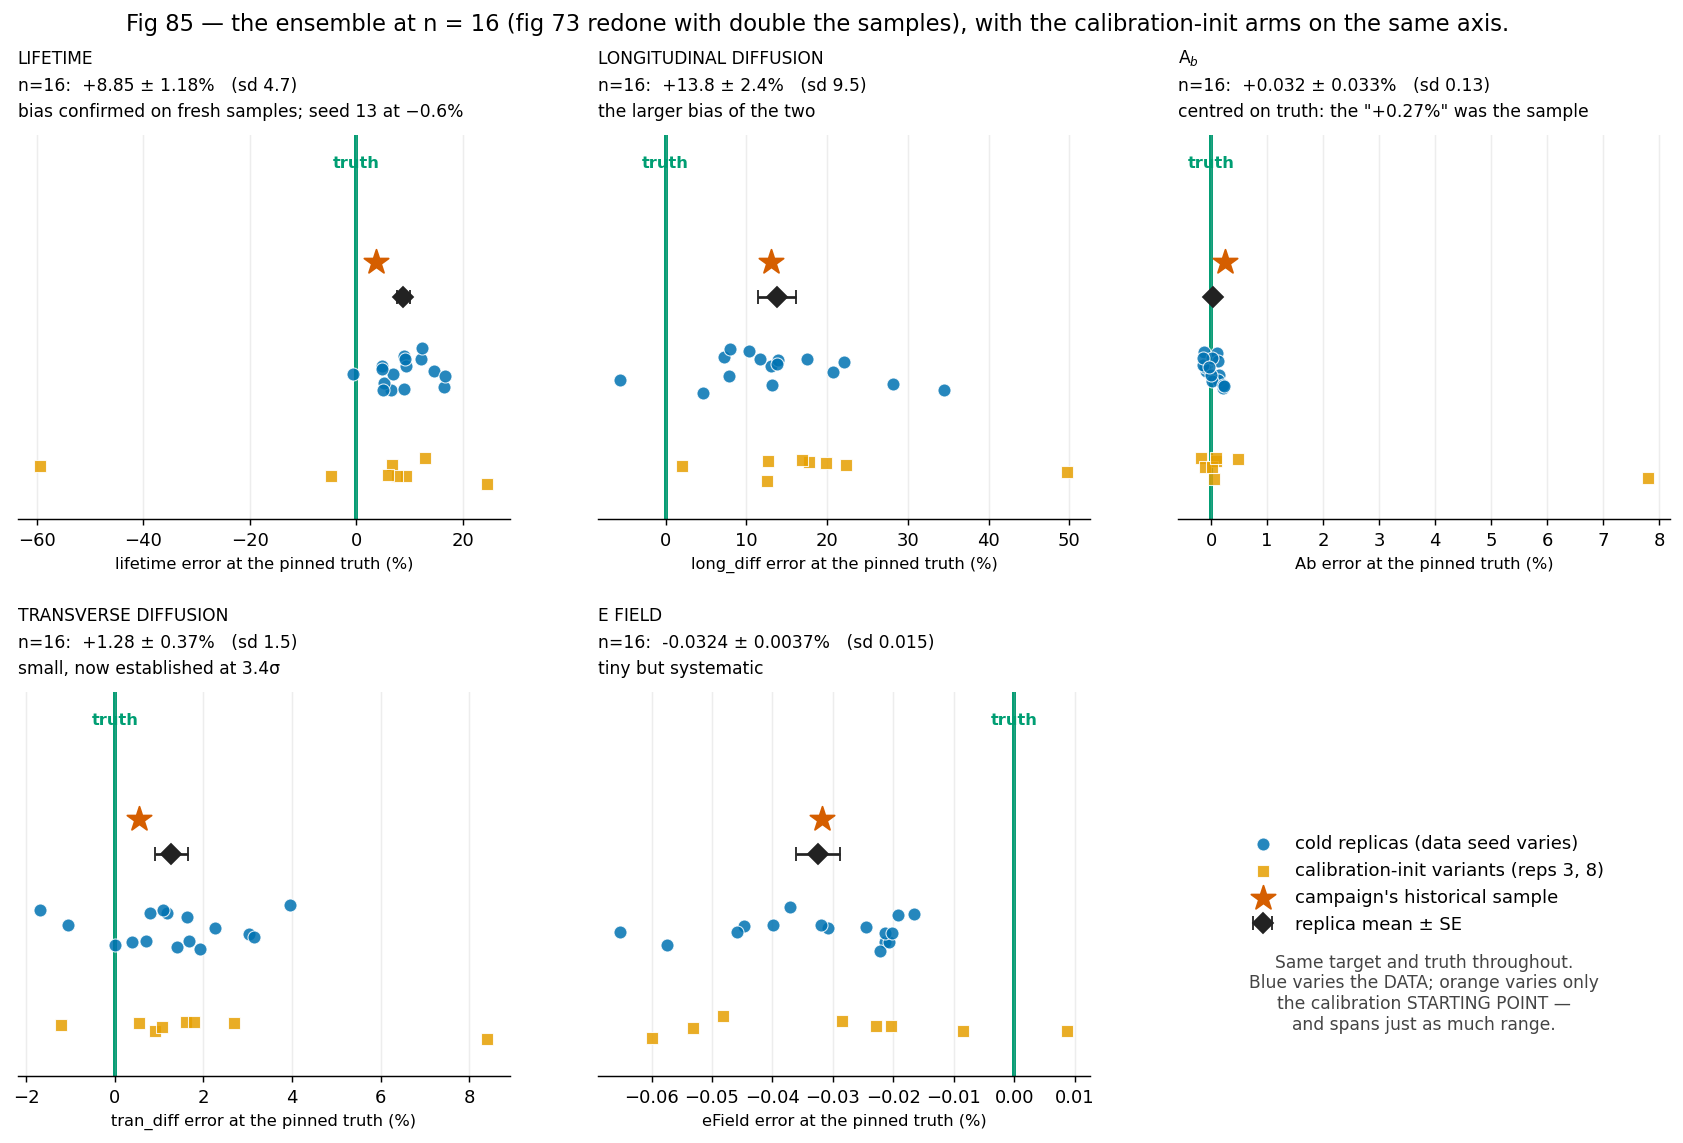
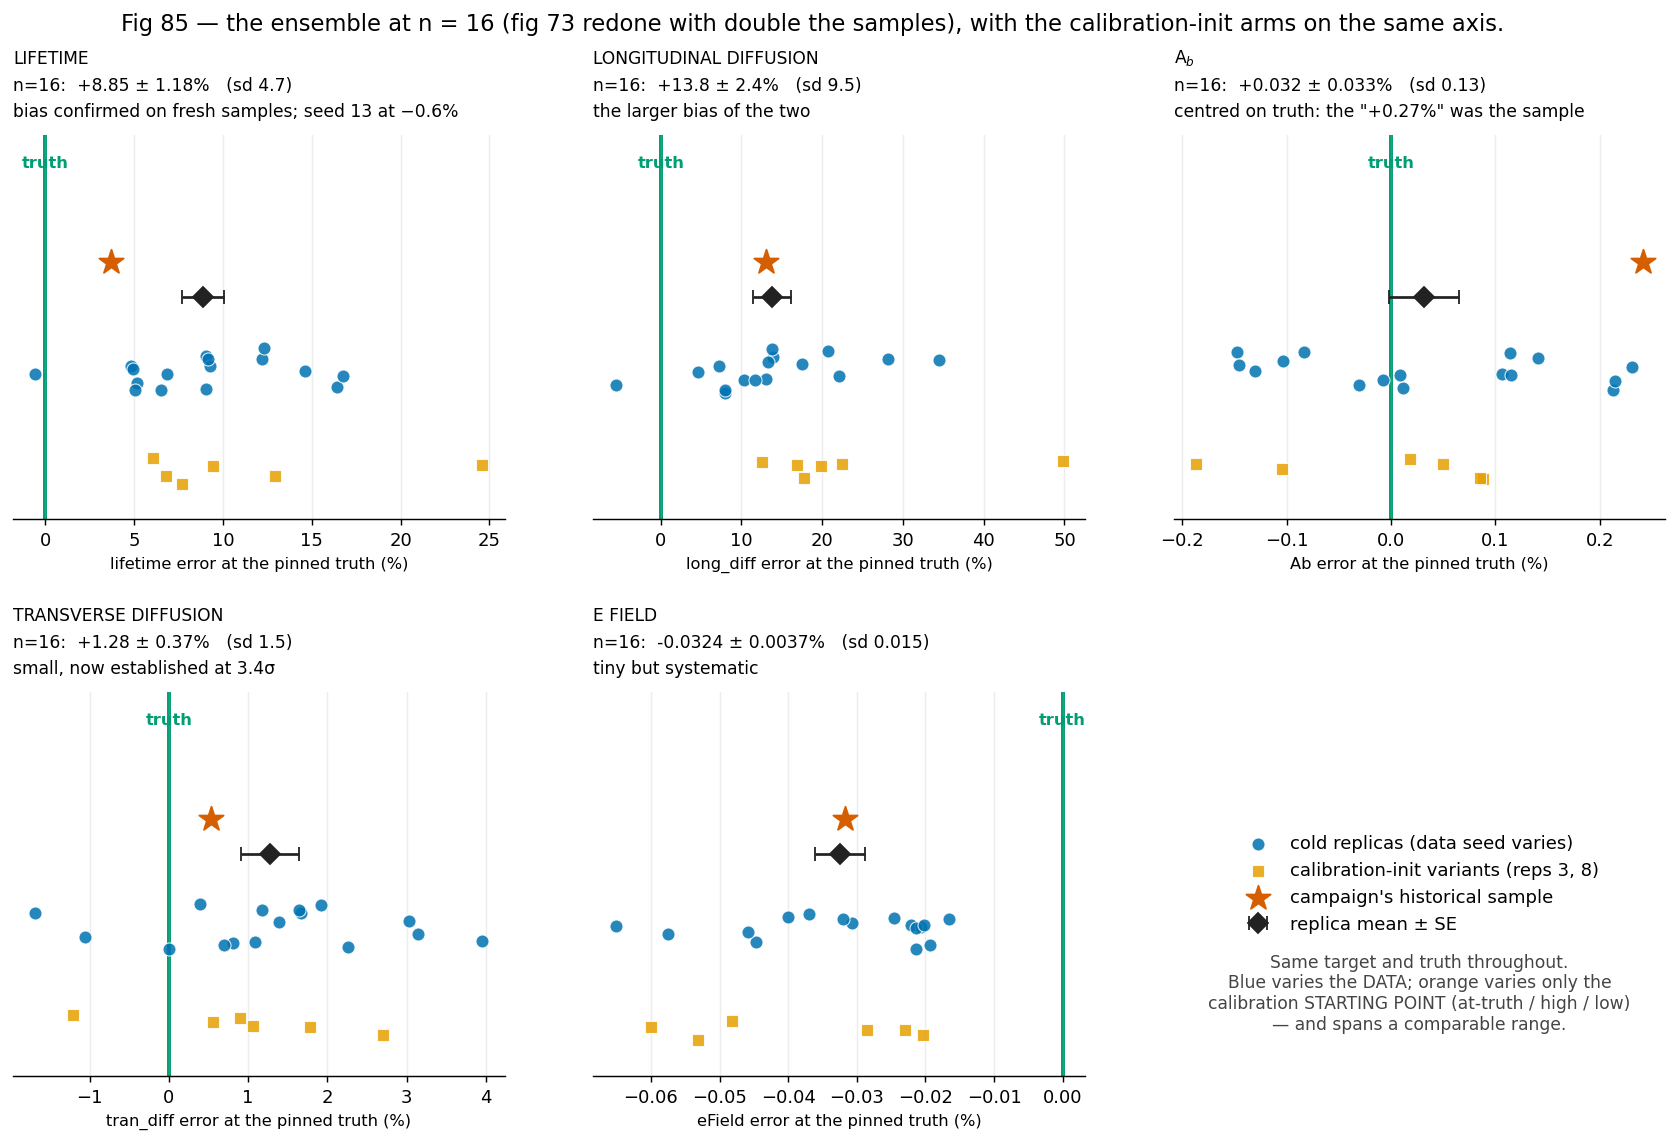
figs 85/87: drop the out-of-range all-shifted arm; it stays as fig 88's own study
CINITA had Ab initialised beyond its max and clamped at the bound, so it
is not a valid init variant. Figs 85/87 now show only the at-truth/high/
low arms; scales rescaled accordingly.

Claude-Session: https://claude.ai/code/session_01AMc19Km3iX9DSrSGRf7Zz2

diff --git a/make_ensemble15_fig.py b/make_ensemble15_fig.py
@@ -5,9 +5,10 @@ Blue = the cold replicas (one per data seed, identical config). Orange = the cal
 variants on replicas 3 and 8 (same data, same target, only the calibration START differs).
 Black diamond = replica mean +- SE. Red star = the campaign's historical sample (BT2).
 
-The point of putting them on one axis: moving the calibration START spans as much range
-(+24.6 down to -59.3 on lifetime) as changing the DATA does. Both are 'where the optimizer
-happened to land', not properties of the estimator.
+The point of putting them on one axis: moving the calibration START alone spans +6.1 to +24.6 on
+lifetime -- an 18-point range on FIXED data, comparable to the 15-point spread the data itself
+produces. Both are 'where the optimizer happened to land', not properties of the estimator.
+(The all-shifted arm is excluded: its A_b init was out of range and clamped -- see fig 88.)
 """
 import glob, pickle
 import numpy as np
@@ -41,7 +42,10 @@ def read(tag):
 
 SEEDS = [s for s in range(1, 17)]
 REP = {s: r for s in SEEDS if (r := read(f'DSREP{s}'))}
-CIN = {f'{k}{s}': r for s in (3, 8) for k in ('CINITT', 'CINITH', 'CINITL', 'CINITA')
+# NOTE: the all-shifted arm (CINITA) is deliberately EXCLUDED here -- its A_b init was out of
+# range and clamped at the bound, so it is not a valid init variant. It is studied on its own
+# terms as a controlled A_b-pinning experiment in fig 88.
+CIN = {f'{k}{s}': r for s in (3, 8) for k in ('CINITT', 'CINITH', 'CINITL')
        if (r := read(f'{k}{s}'))}
 OLD = read('BT2')
 
@@ -90,8 +94,8 @@ ax = fig.add_subplot(gs[1, 2])
 ax.axis('off')
 h, l = fig.axes[0].get_legend_handles_labels()
 ax.legend(h, l, frameon=False, fontsize=10, loc='center')
-ax.text(.5, .12, 'Same target and truth throughout.\nBlue varies the DATA; orange varies only\n'
-                 'the calibration STARTING POINT —\nand spans just as much range.',
+ax.text(.5, .12, 'Same target and truth throughout.\nBlue varies the DATA; orange varies only the\n'
+                 'calibration STARTING POINT (at-truth / high / low)\n— and spans a comparable range.',
         ha='center', fontsize=9.5, color='#444444', transform=ax.transAxes)
 
 fig.suptitle('Fig 85 — the ensemble at n = %d (fig 73 redone with double the samples), with the calibration-init arms on the same axis.'

diff --git a/make_newwave_traces_fig.py b/make_newwave_traces_fig.py
@@ -78,8 +78,9 @@ print('wrote fig86, n =', len(SEEDS))
 
 # ---------------- FIG 87: calibration-init arms ----------------
 ARMS = [('CINITL', 'start low −31%', '#0072B2'), ('DSREP', 'start nominal −8.6%', '#222222'),
-        ('CINITT', 'start AT TRUTH', '#009E73'), ('CINITH', 'start high +14%', '#E69F00'),
-        ('CINITA', 'all five shifted', '#D55E00')]
+        ('CINITT', 'start AT TRUTH', '#009E73'), ('CINITH', 'start high +14%', '#E69F00')]
+# the all-shifted arm is NOT here: its A_b init was out of range and clamped at the bound, so it
+# is not a valid 'where did calibration start' variant -- fig 88 studies it as its own experiment.
 fig, ax = plt.subplots(1, 3, figsize=(14, 4.1))
 for a, s in zip(ax[:2], (3, 8)):
     for pre, lab, col in ARMS:
@@ -91,7 +92,7 @@ for a, s in zip(ax[:2], (3, 8)):
         a.plot(0, d['lt0'], '<', color=col, ms=7, clip_on=False)
         a.plot(x[-1], d['lifetime'][-1], 'o', color=col, ms=5)
     a.axhline(0, color=GREEN, lw=1.6)
-    a.set_ylim(-70, 65)
+    a.set_ylim(-36, 62)
     a.set_xlabel('iteration (×1000)')
     a.set_ylabel('lifetime error (%)')
     a.set_title(f'replica {s}: same data, same target,\nonly the calibration START differs', fontsize=9.5)
@@ -106,7 +107,7 @@ for pre, lab, col in ARMS:
         m = x > 6.5
         ax[2].plot(x[m], d['lifetime'][m], ls, color=col, lw=1.3)
 ax[2].axhline(0, color=GREEN, lw=1.6)
-ax[2].set_ylim(-70, 30)
+ax[2].set_ylim(0, 28)
 ax[2].set_xlabel('iteration (×1000)')
 ax[2].set_ylabel('lifetime error (%)')
 ax[2].set_title('endpoints, zoomed (solid rep 3, dashed rep 8):\nthe arms never re-merge', fontsize=9.5)
